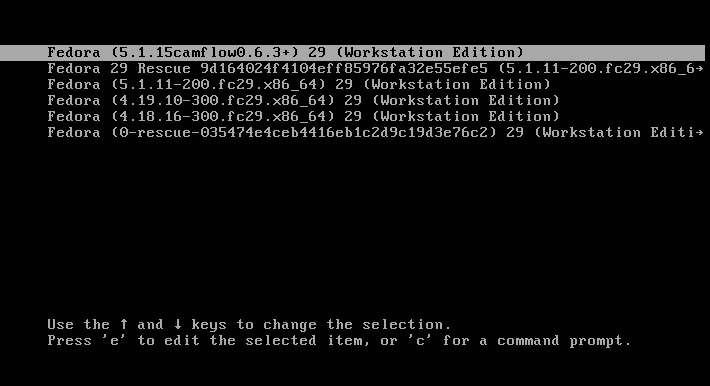
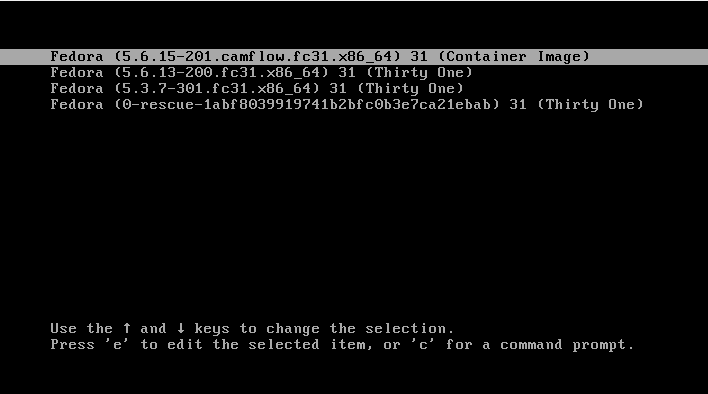
change Grub image + some text tweak

Changed region(s): [[0.0, 0.0933, 1.0, 0.3731], [0.0621, 0.8083, 0.9011, 0.9016]]

diff --git a/content/tutorial/architecture.md b/content/tutorial/architecture.md
@@ -9,8 +9,8 @@ weight: 10
 
 __CamFlow capture mechanism:__ CamFlow is an implementation of the [whole-system provenance concept](http://patrickmcdaniel.org/pubs/acsac12.pdf).
 The idea is to perform provenance capture from the OS perspective, while providing guarantees about its completeness.
-This is achieved by relying on the OS [reference monitor](https://en.wikipedia.org/wiki/Reference_monitor) that interpose between user level applications and kernel objects.
-CamFlow is implemented in the Linux kernel and relies on the [Linux Security Module framework](https://www.kernel.org/doc/Documentation/security/LSM.txt) and the [NetFilter framework](https://en.wikipedia.org/wiki/Netfilter) to effect the interposition.
+This is achieved by relying on the OS [reference monitor](https://en.wikipedia.org/wiki/Reference_monitor) that capture interactions between user level applications and kernel objects.
+CamFlow is implemented in the Linux kernel and relies on the [Linux Security Module framework](https://www.kernel.org/doc/Documentation/security/LSM.txt) and the [NetFilter framework](https://en.wikipedia.org/wiki/Netfilter) to effect the capture.
 [source code](https://github.com/CamFlow/camflow-dev)
 
 __camflowd:__ `camflowd` is a daemon charged of recording the provenance captured  in the kernel by CamFlow.
